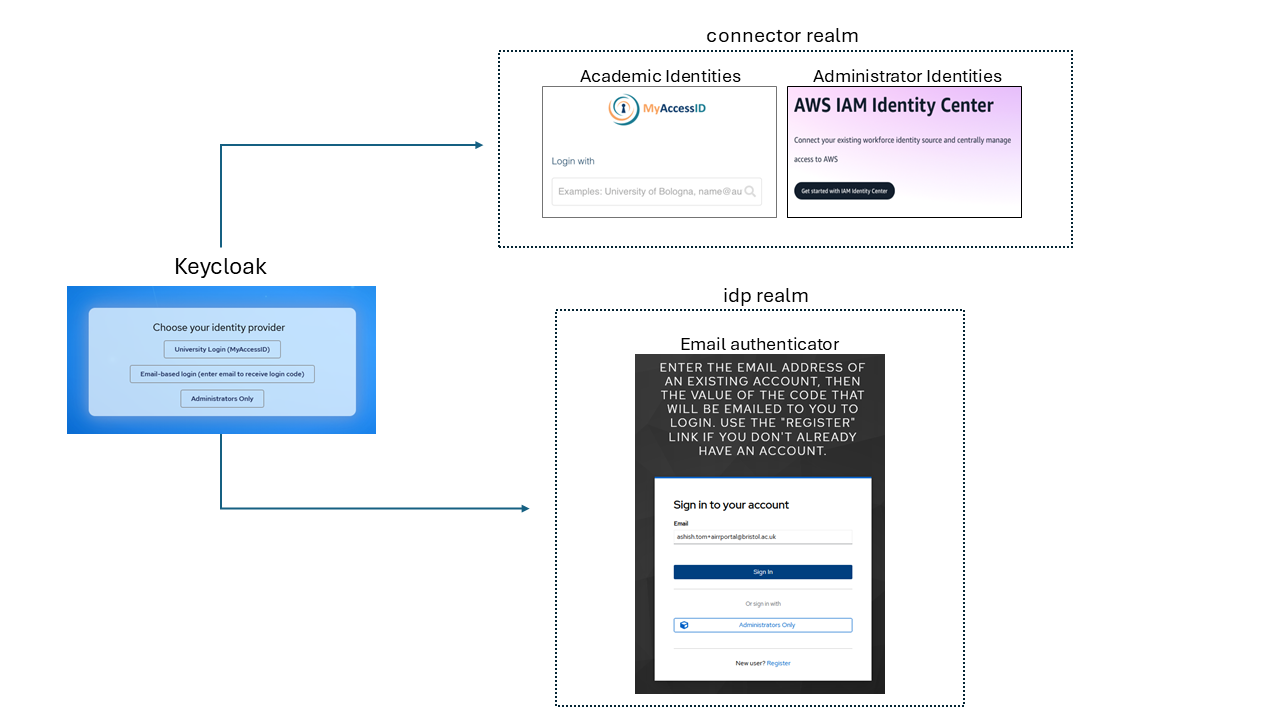
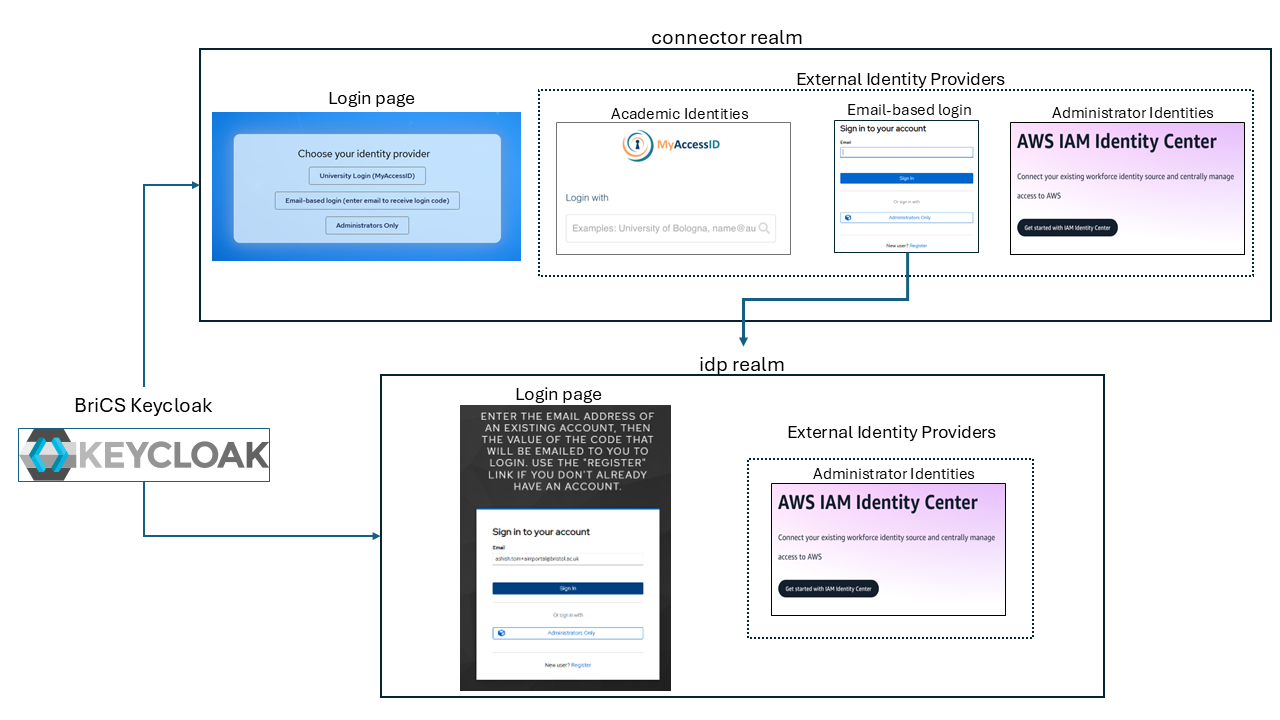
modify realm diagram and wording

diff --git a/docs/myaccessid-keycloak.md b/docs/myaccessid-keycloak.md
@@ -234,31 +234,31 @@ For AIRRPortal logins, two additional realms are configured in Keycloak:
 
 ![airrportal-realm](../images/airrportal-keycloak-realm.png)
 
-1. Connector realm
+1. `connector` realm
 
-   This realm is used for standard users logging in via MyAccessID and email-based logins, as well as for administrators authenticating using identities from AWS IAM Identity Center. Because this realm resides within the same Keycloak instance operated by BriCS, the existing MyAccessID connection configured for the Isambard realm is reused.
+   This realm is used for standard users logging in via MyAccessID and email-based logins, as well as for administrators authenticating using identities from AWS IAM Identity Center. Because this realm resides within the same Keycloak instance operated by BriCS, the existing MyAccessID connection configured for the `isambard` realm is reused.
 
    By default, users are directed to the login page for the Connector realm when accessing AIRRPortal. From there, depending on whether they can use MyAccessID, they choose either University Login using MyAccessID or the email-based login option.
 
-2. IdP realm
+2. `idp` realm
 
-   This realm is dedicated to the email-based authenticator. It uses the [magic link plugin](https://github.com/p2-inc/keycloak-magic-link) to allow users to authenticate using a code sent to their email address when they log in through this realm. An OIDC client configured in this realm is set up as an identity provider in the Connector realm, so that users are redirected here when selecting the email-based login option.
+   This realm is dedicated to the email-based authenticator. It uses the [magic link plugin](https://github.com/p2-inc/keycloak-magic-link) to allow users to authenticate using a code sent to their email address when they log in through this realm. An OIDC client configured in this realm is set up as an identity provider in the `connector` realm, so that users are redirected here when selecting the email-based login option.
 
-###### Setting up the IdP realm
+###### Setting up the `idp` realm
 
 The realm is configured to allow users to register and log in using their email address.
 
 ![idp-realm-login](../images/idp-realm-login-conf.png)
 
-As shown in the realm settings, user registration is enabled. Login with email is turned on, with Email as username and Verify email enabled.
+As shown in the realm settings, `User registration` is enabled. `Login with email` is turned on, with `Email as username` and `Verify email` enabled.
 
 The built-in browser-based authentication flow is modified as follows:
 
 ![idp-realm-browser-auth](../images/idp-realm-browser-auth-flow.png)
 
-A copy of the default flow is created, edited as shown above, and set as the default using the actions menu in the top-left of the window.
+This is created from a copy of the default browser flow is created. This is then edited as shown above, and set as the default using the `actions` menu in the top-right of the window.
 
-An OIDC client is configured in this realm so that the Connector realm can use it as an identity provider.
+An OIDC client is configured in this realm so that the `connector` realm can use it as an identity provider.
 
 ![idp-client-settings-1](../images/idp-realm-client-settings-1.png)
 
@@ -268,22 +268,22 @@ The remaining client settings are shown below:
 
 ![idp-client-settings-2](../images/idp-realm-client-settings-2.png)
 
-Client authentication is enabled, as this is not a public client and requires a pre-shared client secret. Front-channel logout is also enabled.
+`Client authentication` is enabled, as this is not a public client and requires a pre-shared client secret. `Front-channel logout` is also enabled.
 
-###### Setting up the Connector realm
+###### Setting up the connector realm
 
-An identity provider is configured in the Connector realm using the client defined in the IdP realm.
+An identity provider is configured in the `connector` realm using the details of the client defined in the `idp` realm.
 
-![connectore-idp-settings-1](../images/connector-realm-idp-settings-1.png)
+![connector-idp-settings-1](../images/connector-realm-idp-settings-1.png)
 
-The previously configured Client ID and the Client Secret generated for the client in the IdP realm are used here.
+The previously configured `Client ID` and the `Client Secret` generated for the client in the IdP realm are used here.
 
 Advanced settings are configured as shown below:
 
-![connectore-idp-settings-2](../images/connector-realm-idp-settings-2.png)
+![connector-idp-settings-2](../images/connector-realm-idp-settings-2.png)
 
-Trust Email is enabled, as the email address returned by the IdP realm has already been verified. First Login Flow Override is set to use a modified authentication flow, shown below.
+`Trust Email` is enabled, as the email address returned by the IdP realm has already been verified. `First Login Flow Override` is set to use a modified authentication flow, shown below.
 
-![connectore-first-login-flow](../images/connector-realm-first-login-flow.png)
+![connector-first-login-flow](../images/connector-realm-first-login-flow.png)
 
-A copy of the default flow is created, edited as shown above, and set as the default using the actions menu in the top-left of the window.
+A copy of the default flow is created, edited as shown above, and set as the default using the `actions` menu in the top-left of the window.
